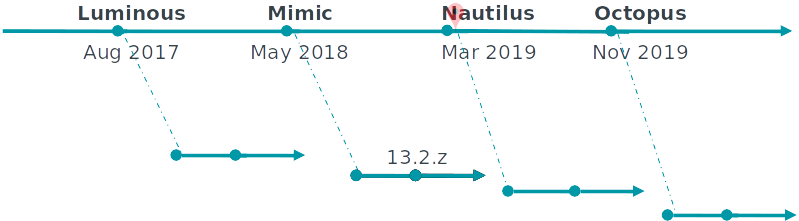
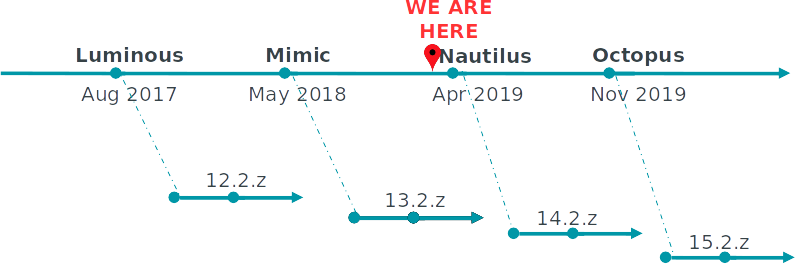
update notes and release picture and added barcelona picture

diff --git a/markdown/slides.md b/markdown/slides.md
@@ -44,7 +44,7 @@ Was ist neu in Nautilus und was kommt als Nächstes?
 <img src="images/ceph_stack.png" style="background:none; border:none; box-shadow:none;">
 
 Note:
-Ceph ist eine Unified Storage Plattform welche Objekt, Block und Filestorage zur Verfügung stellen kann
+* Ceph ist eine Unified Storage Plattform welche Objekt, Block und Filestorage zur Verfügung stellen kann
 
 --
 
@@ -58,9 +58,9 @@ Ceph ist eine Unified Storage Plattform welche Objekt, Block und Filestorage zur
  * e.g Luminous -> Nautilus, Mimic -> Octopus
 
 Note:
-Aktuelle Release Zyklus ist 9 Monate.
-Es wird dabei ein n-2 n+2 Upgrade unterstützt
-Maximum von 18 Monaten aktuell möglich bevor ein Upgrade ansteht
+* Aktuelle Release Zyklus ist 9 Monate.
+* Es wird dabei ein n-2 n+2 Upgrade unterstützt
+* Maximum von 18 Monaten aktuell möglich bevor ein Upgrade ansteht
 
 --
 
@@ -75,10 +75,10 @@ Maximum von 18 Monaten aktuell möglich bevor ein Upgrade ansteht
 * Multi- and hyprid cloud
 
 Note:
-Upstream hat 4 Leitelemente aktuell:
-Usability and management - Ceph hat immer den Beigeschmack sehr schwierig zu benutzen zu sein, von der Installation über das Mangement
-Performance - Jeder will All-flash und NVMe und somit muss auch Ceph nachziehen. Aktuell gibt ein ein Projekt Names "crimson" was den OSD stack neu definiert für diesen Fall
-Container Ecosystem - kubernetes, csi
+* Upstream hat 4 Leitelemente aktuell:
+* Usability and management - Ceph hat immer den Beigeschmack sehr schwierig zu benutzen zu sein, von der Installation über das Mangement
+* Performance - Jeder will All-flash und NVMe und somit muss auch Ceph nachziehen. Aktuell gibt ein ein Projekt Names "crimson" was den OSD stack neu definiert für diesen Fall
+* Container Ecosystem - kubernetes, csi
 
 
 ---
@@ -92,9 +92,9 @@ Container Ecosystem - kubernetes, csi
 <img src="images/ceph-dashboard.png" style="background:none; border:none; box-shadow:none;">
 
 Note:
-Größte Neuigkeit in diesem Bereich ist das Ceph Dashboard
-Erste read-only Implementierung mit Luminous
-Jetzt dank dem openATTIC team und Projekt haben wir endlich eine nutzbare und hilfreiche UI
+* Größte Neuigkeit in diesem Bereich ist das Ceph Dashboard
+* Erste read-only Implementierung mit Luminous
+* Jetzt dank dem openATTIC team und Projekt haben wir endlich eine nutzbare und hilfreiche UI
 
 --
 
@@ -114,11 +114,11 @@ Jetzt dank dem openATTIC team und Projekt haben wir endlich eine nutzbare und hi
 <img src="images/orchestrator-sandwich.png" style="background:none; border:none; box-shadow:none;">
 
 Note:
-Orchestrator Abstraktion
-Die Idee dahinter ist einen Orchestrator Layer zu haben der egal welches Tool Ceph nutzen will dies vereinheitlich und vereinfacht
-Aktuell wird an rook, ansible, DeepSea und ssh gearbeitet.
-Ceph spricht mit dem Orchestrator egal wer diese Anfrage einkippt und kümmert sich um die Ausführung
-Das ist die Grundlage für eine einheitliche ceph-cli
+* Orchestrator Abstraktion
+* Die Idee dahinter ist einen Orchestrator Layer zu haben der egal welches Tool Ceph nutzen will dies vereinheitlich und vereinfacht
+* Aktuell wird an rook, ansible, DeepSea und ssh gearbeitet.
+* Ceph spricht mit dem Orchestrator egal wer diese Anfrage einkippt und kümmert sich um die Ausführung
+* Das ist die Grundlage für eine einheitliche ceph-cli
 
 --
 
@@ -136,7 +136,7 @@ Das ist die Grundlage für eine einheitliche ceph-cli
 * WIP - Enable dashboard GUI for deploying and managing daemons
 
 Note:
-Wir sind sehr froh das wir endlich soweit sind und somit auch nur noch wenige Schritte davon entfernt endlich einen kompletten Cluster im Dashboard managen zu können.
+* Wir sind sehr froh das wir endlich soweit sind und somit auch nur noch wenige Schritte davon entfernt endlich einen kompletten Cluster im Dashboard managen zu können.
 
 --
 
@@ -152,11 +152,11 @@ Wir sind sehr froh das wir endlich soweit sind und somit auch nur noch wenige Sc
  * Ceph can either issue health warning or initiate changes itself
 
 Note:
-Eines der großen RADOS features in Nautilus
-Leute waren immer verwirrt und keiner wusste genau wie er die PGs definieren sollte
-Es war immer möglich die pg_num zu erhöhen, aber nicht zu verringern - fixed in Nautilus
-PGs können automatisch im Hintergrund anpassen - Es schaut sich den Cluster und die Daten an und passt das die pg_num an
-Es kann informieren oder es selbst machen, kann gewählt werden - wenn unterschied von soll zu sein >3 ist
+* Eines der großen RADOS features in Nautilus
+* Leute waren immer verwirrt und keiner wusste genau wie er die PGs definieren sollte
+* Es war immer möglich die pg_num zu erhöhen, aber nicht zu verringern - fixed in Nautilus
+* PGs können automatisch im Hintergrund anpassen - Es schaut sich den Cluster und die Daten an und passt das die pg_num an
+* Es kann informieren oder es selbst machen, kann gewählt werden - wenn unterschied von soll zu sein >3 ist
 
 --
 
@@ -171,10 +171,10 @@ Es kann informieren oder es selbst machen, kann gewählt werden - wenn unterschi
  * Automatically mark soon-to-fail OSDs “out”
 
 Note:
-Es wird unterhalb allem geschaut, hinter Partition und LVM etc - direkt die Seriennummer und der Typ
-Diese Infos werden vom ceph-mgr verwaltet
-Es gibt neue Fuktionalität in den OSDs die diese Health daten in RADOS Objects speichern
-Zusammen mit der blinking LEDs Funktionalität können Disks getauscht werden
+* Es wird unterhalb allem geschaut, hinter Partition und LVM etc - direkt die Seriennummer und der Typ
+* Diese Infos werden vom ceph-mgr verwaltet
+* Es gibt neue Fuktionalität in den OSDs die diese Health daten in RADOS Objects speichern
+* Zusammen mit der blinking LEDs Funktionalität können Disks getauscht werden
 
 --
 
@@ -204,10 +204,10 @@ Samsung_SSD_850_EVO_1TB_S2RENX0J500066T cpach:sdb     mon.cpach  >5w
 * If user opts in, telemetry module can phone home crashes to Ceph devs
 
 Note:
-Vorher einfach einen crash report geschrieben ohne das es jemand mitbekommen hat - Daemon restart fertig
-report /var/lib/ceph/crash process id, timestamp and a stacktrace
-Es gibt eine Telemetry Module - muss aktiviert werden - kann Basis Infos Upstream schicken - how many OSDs, which version etc
-Telemetry kann diese crash reports direkt mit übermitteln damit die devs davon lernen können
+* Vorher einfach einen crash report geschrieben ohne das es jemand mitbekommen hat - Daemon restart fertig
+* report /var/lib/ceph/crash process id, timestamp and a stacktrace
+* Es gibt eine Telemetry Module - muss aktiviert werden - kann Basis Infos Upstream schicken - how many OSDs, which version etc
+* Telemetry kann diese crash reports direkt mit übermitteln damit die devs davon lernen können
 
 ---
 
@@ -230,8 +230,8 @@ Telemetry kann diese crash reports direkt mit übermitteln damit die devs davon 
  * Kernel support for v2 will come later
 
 Note:
-Kompletter Traffic zwischen allen Daemons in Ceph kann verschlüsselt werden
-Aktuell kann man nur IPv4 oder IPv6 nutzen, damit geht nun Dual Stack
+* Kompletter Traffic zwischen allen Daemons in Ceph kann verschlüsselt werden
+* Aktuell kann man nur IPv4 oder IPv6 nutzen, damit geht nun Dual Stack
 
 
 --
@@ -252,11 +252,11 @@ Aktuell kann man nur IPv4 oder IPv6 nutzen, damit geht nun Dual Stack
 * ‘Misplaced’ is no longer HEALTH_WARN
 
 Note:
-Es war schwierig zu sagen wie viel RAM ein OSD wirklich nutzen wird - Ich will das meine OSD 3GB RAM max nutzt und Ceph passt alles andere selbst an
-Es können OSD jetzt an bestimmte NUMA nodes gebunden werden
-Anstelle von der ceph.conf auf tausenden nodes befindet sich die Config jetzt direkt nur noch auf den Monitoren
-For long running Tasks gibt es jetzt ein "ceph progress" was eine Fortschrittsanzeige für solche Vorgänge anzeigt
-Misplaced data but not degraded führt jetzt nicht mehr zu Health_Warn - kann geändert werden aber so kann man weiterschlafen
+* Es war schwierig zu sagen wie viel RAM ein OSD wirklich nutzen wird - Ich will das meine OSD 3GB RAM max nutzt und Ceph passt alles andere selbst an
+* Es können OSD jetzt an bestimmte NUMA nodes gebunden werden
+* Anstelle von der ceph.conf auf tausenden nodes befindet sich die Config jetzt direkt nur noch auf den Monitoren
+* For long running Tasks gibt es jetzt ein "ceph progress" was eine Fortschrittsanzeige für solche Vorgänge anzeigt
+* Misplaced data but not degraded führt jetzt nicht mehr zu Health_Warn - kann geändert werden aber so kann man weiterschlafen
 
 --
 
@@ -275,7 +275,7 @@ Misplaced data but not degraded führt jetzt nicht mehr zu Health_Warn - kann ge
 
 Note:
 
-Problem war häufig die Cache Größen der RocksDB etc - In Nautilus kümmert sich Ceph da nun selber drum
+* Problem war häufig die Cache Größen der RocksDB etc - In Nautilus kümmert sich Ceph da nun selber drum
 
 --
 
@@ -289,10 +289,10 @@ Problem war häufig die Cache Größen der RocksDB etc - In Nautilus kümmert si
  * Better recovery efficiency when less m nodes fail (for a k+m code)
 
 Note:
-Die neuen Device Klassen mit HDD und SSD mit denen man einfach Crush Regeln schreiben kann die nur auf einen bestimmten Disk Typ abzielen
+* Die neuen Device Klassen mit HDD und SSD mit denen man einfach Crush Regeln schreiben kann die nur auf einen bestimmten Disk Typ abzielen
 können nun on the fly migriert werden - Before it was manual work
-In einigen Cases kann es dazu führen das eine OSD unbestimmt viel RAM frisst
-Clay sorgt dafür das ein optimaleres Verhältnis zwischen Bandwith und IO
+* In einigen Cases kann es dazu führen das eine OSD unbestimmt viel RAM frisst
+* Clay sorgt dafür das ein optimaleres Verhältnis zwischen Bandwith und IO
 
 ---
 
@@ -315,11 +315,11 @@ Clay sorgt dafür das ein optimaleres Verhältnis zwischen Bandwith und IO
  * Better performance, efficiency and scaliblity 
 
 Note:
-Es können Zones erstellt werden die bei bestimmten Events Meldung geben - Es wird ein Eventstream erzeugt aus dem man die Daten lesen kann (polling interface um an Daten zu kommen)
-Ein PUT kann eine Function as a service auslösen - nette Sache :) 
-Archive zone mit Object versioning - full copy of your data but versionized
-S3 API die es möglich macht Tiering zu implementieren - in einem Cluster across different pools
-Früher Apache und civetweb und nun mit Nautilus nutzen wir Beast als Webfrontend
+* Es können Zones erstellt werden die bei bestimmten Events Meldung geben - Es wird ein Eventstream erzeugt aus dem man die Daten lesen kann (polling interface um an Daten zu kommen)
+* Ein PUT kann eine Function as a service auslösen - nette Sache :) 
+* Archive zone mit Object versioning - full copy of your data but versionized
+* S3 API die es möglich macht Tiering zu implementieren - in einem Cluster across different pools
+* Früher Apache und civetweb und nun mit Nautilus nutzen wir Beast als Webfrontend
 
 ---
 
@@ -332,7 +332,7 @@ Früher Apache und civetweb und nun mit Nautilus nutzen wir Beast als Webfronten
 <img src="images/rbd-live-migration.png" style="background:none; border:none; box-shadow:none;">
 
 Note:
-Man konnte immer schon verschiedene Pools mit unterschiedlicher Performance haben und war dann gebunden wo man das RBD erstellt hatte
+* Man konnte immer schon verschiedene Pools mit unterschiedlicher Performance haben und war dann gebunden wo man das RBD erstellt hatte
 
 --
 
@@ -358,10 +358,10 @@ Man konnte immer schon verschiedene Pools mit unterschiedlicher Performance habe
 * Creation, access, modification timestamps
 
 Note:
-rbd-mirror ist der Deamon der die asynchronce Replikation übernimmt - gibt es seit Luminous
-In einem Pool kann man Security Domains machen und dann clients zu einem bestimmten Bereich locken
-Es war möglich schon caching z.B. auf bestimmten RBDs zu aktivieren aber nun kann das auch direkt auf dem Pool gemacht werden und durch eine einheitliche CLI
-"rbd ls" hat nun auch timestamps somit sieht man auch wer und wann dieses image nutzt
+* rbd-mirror ist der Deamon der die asynchronce Replikation übernimmt - gibt es seit Luminous
+* In einem Pool kann man Security Domains machen und dann clients zu einem bestimmten Bereich locken
+* Es war möglich schon caching z.B. auf bestimmten RBDs zu aktivieren aber nun kann das auch direkt auf dem Pool gemacht werden und durch eine einheitliche CLI
+* "rbd ls" hat nun auch timestamps somit sieht man auch wer und wann dieses image nutzt
 
 ---
 
@@ -379,8 +379,8 @@ Es war möglich schon caching z.B. auf bestimmten RBDs zu aktivieren aber nun ka
 * ‘ceph fs volume …’, ‘ceph fs subvolume …’
 
 Note:
-Multi-fs ist jetzt stable - D.h es können multiple CephFS filesystems in einem Ceph Cluster erstellt werden
-Der Teil wurde aus dem OpenStack Manila driver jetzt direkt in den ceph-mgr übernommen. Alle nutzen jetzt die gleiche Abstraktion hier - cli und dashboard
+* Multi-fs ist jetzt stable - D.h es können multiple CephFS filesystems in einem Ceph Cluster erstellt werden
+* Der Teil wurde aus dem OpenStack Manila driver jetzt direkt in den ceph-mgr übernommen. Alle nutzen jetzt die gleiche Abstraktion hier - cli und dashboard
 
 -- 
 
@@ -397,8 +397,8 @@ Der Teil wurde aus dem OpenStack Manila driver jetzt direkt in den ceph-mgr übe
 * Mapped to new volume/subvolume concept
 
 Note:
-Jeff Layton hat es so umgebaut das es jetzt ein Object in Rados gibt was alle diese Informationen hält 
-NFS Gateways storen ihre configs nun auch in einem Rados Object etc
+* Jeff Layton hat es so umgebaut das es jetzt ein Object in Rados gibt was alle diese Informationen hält 
+* NFS Gateways storen ihre configs nun auch in einem Rados Object etc
 
 --
 
@@ -413,8 +413,8 @@ NFS Gateways storen ihre configs nun auch in einem Rados Object etc
  * MDS balancing improvements for multi-MDS clusters
 
 Note:
-Ein outreachy project hat uns die cephfs shell gebracht für Skripting für CephFS
-Zuvor musste man für Quota z.B. erst CephFS mounten und dann das Attribute setzen, dass geht nun via CLI
+* Ein outreachy project hat uns die cephfs shell gebracht für Skripting für CephFS
+* Zuvor musste man für Quota z.B. erst CephFS mounten und dann das Attribute setzen, dass geht nun via CLI
 
 ---
 
@@ -433,9 +433,9 @@ Zuvor musste man für Quota z.B. erst CephFS mounten und dann das Attribute setz
 * Kubernetes as “distributed OS”
 
 Note:
-Bei Containern gibt es zwei Sichtweisen - Wir stellen den Storage unterhalb vo Kubernetes zu Verfügung
+* Bei Containern gibt es zwei Sichtweisen - Wir stellen den Storage unterhalb vo Kubernetes zu Verfügung
 oder wir lassen den Ceph cluster in Kubernetes laufen
-Besonders bei Gateways z.B. die einfach überall laufen können, kann sich einfach Kubernetes darum kümmern und schauen
+* Besonders bei Gateways z.B. die einfach überall laufen können, kann sich einfach Kubernetes darum kümmern und schauen
 wo es am Besten gerade passt
 
 --
@@ -504,13 +504,13 @@ wo es am Besten gerade passt
 
 --
 
-#### Cephalocon Barcelona
+#### Cephalocon Barcelona 2019
 
-* Cephalocon Barcelona 2019
- * May 19-20, 2019
- * Barcelona, Spain
- * Similar format: 2 days, 4 tracks
+* May 19-20, 2019
+* Barcelona, Spain
+* Similar format: 2 days, 4 tracks
 * Co-located with KubeCon + CloudNativeCon
  * May 20-23, 2018
 * https://ceph.com/cephalocon/
 
+<img src="images/cephalocon-barcelona.png" width="35%" style="background:none; border:none; box-shadow:none;">
